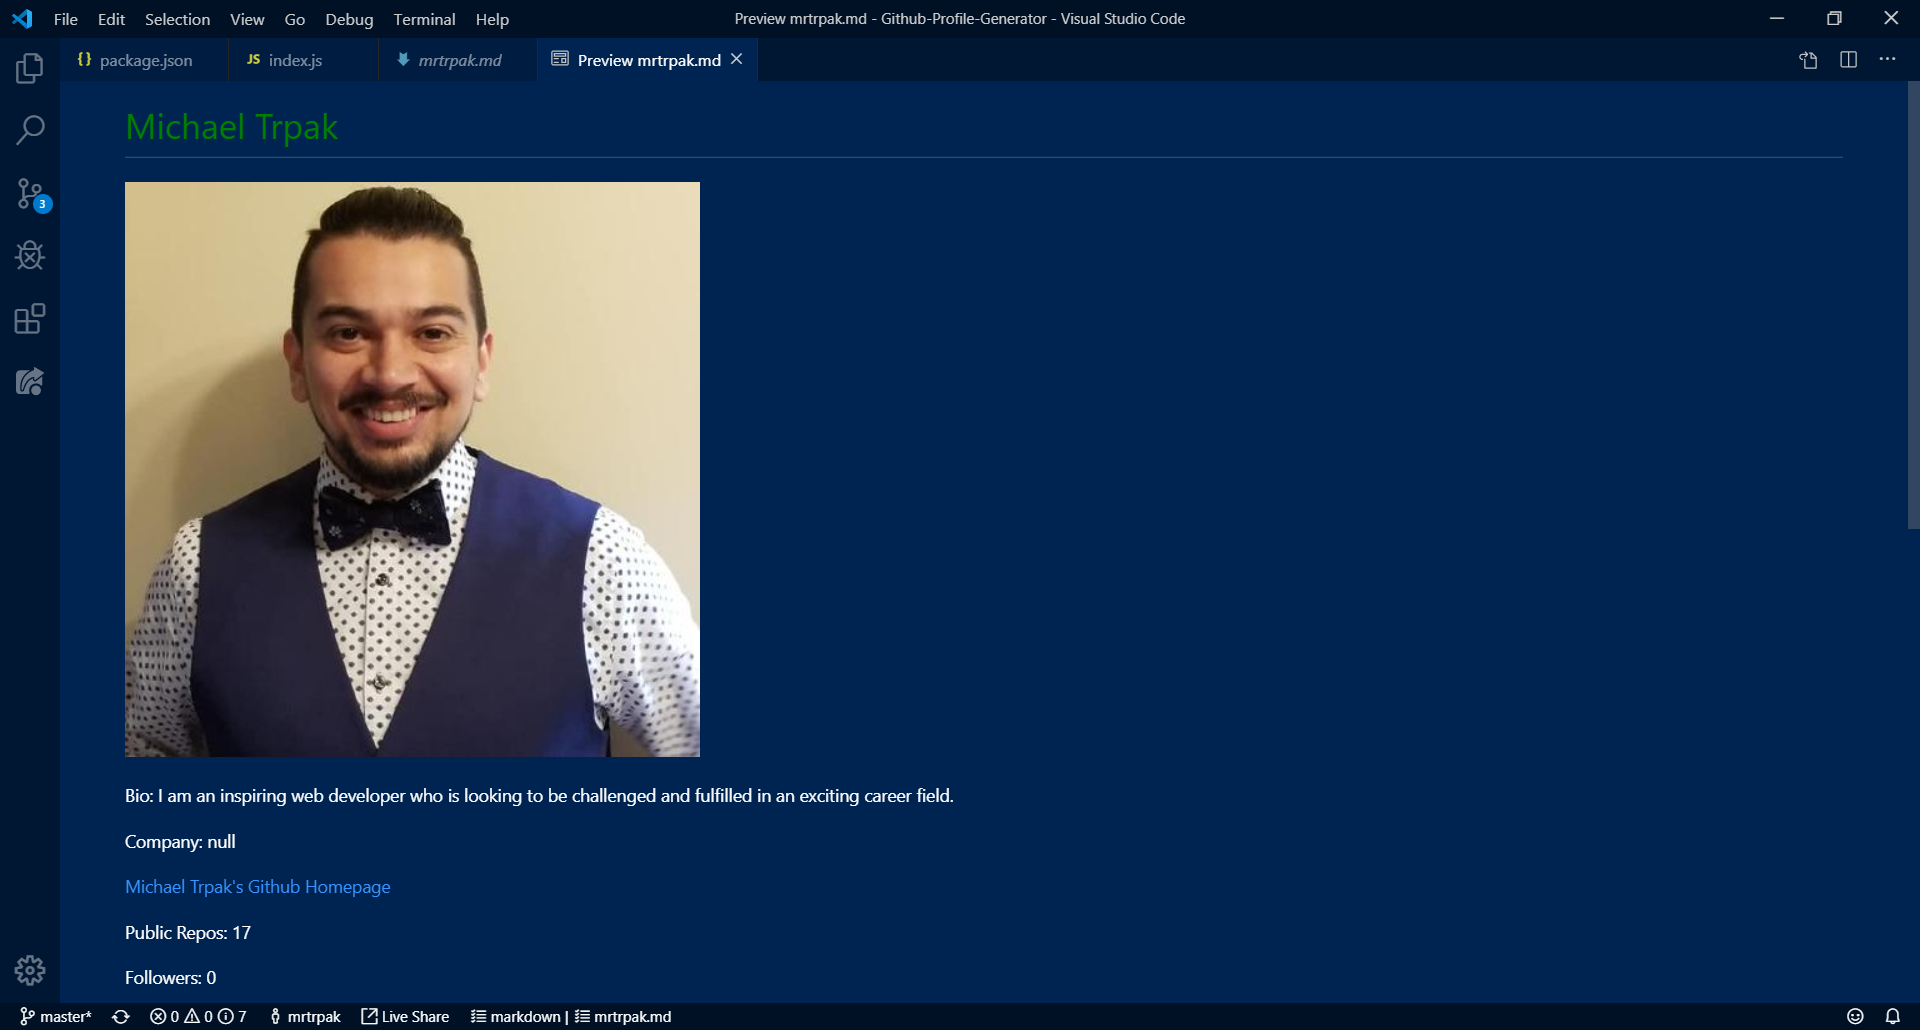
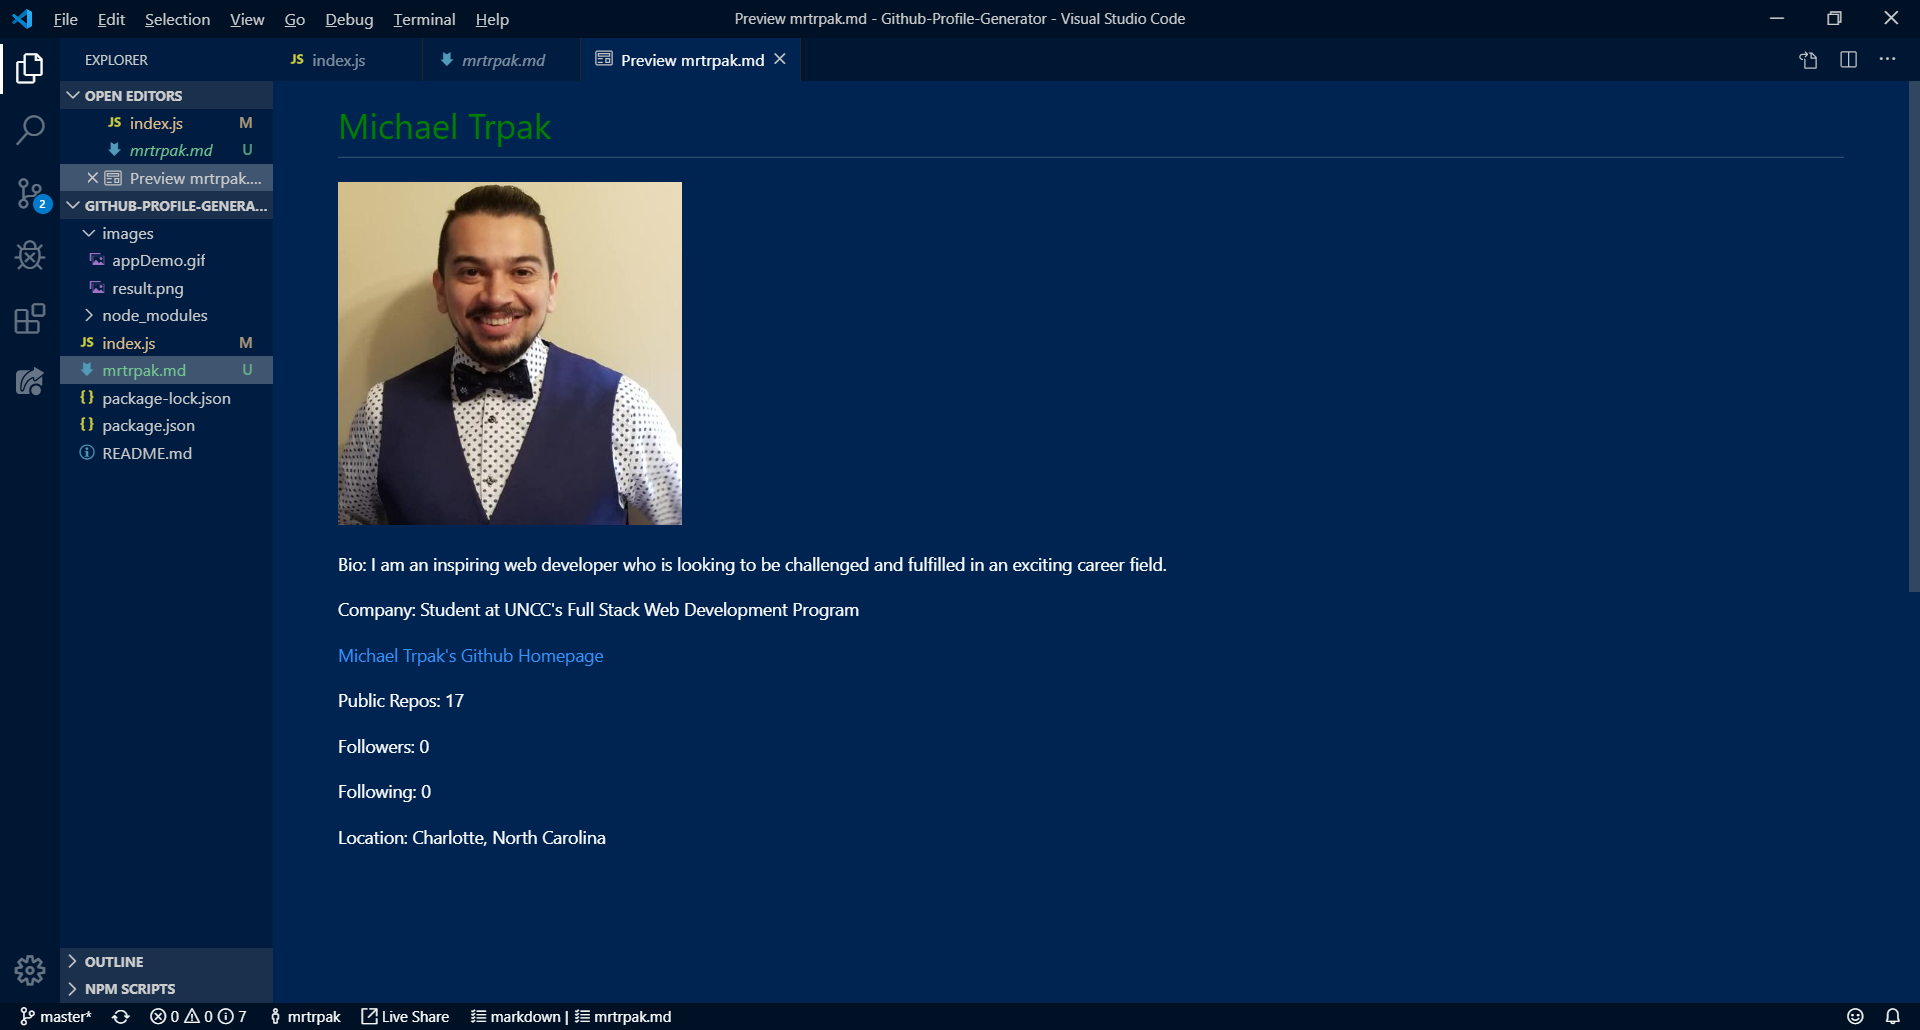
changed the sizing of the photo, remade the divs back to p tags for a better look, updated the image to show new changes

diff --git a/index.js b/index.js
@@ -25,14 +25,14 @@ inquirer.prompt([
     axios.get(queryUrl).then(gitInfo => {
         fs.writeFile(username + ".md",
         "<h1 style='color:" + favColor + "'>" + gitInfo.data.name + "</h1>"
-        + "<img src=" + gitInfo.data.avatar_url + " style='width: 100px; height: 100px;'>"
-        + "<div>Bio: " + gitInfo.data.bio + "</div>"
-        + "<div>Company: " + gitInfo.data.company + "</div>"
+        + "<img src=" + gitInfo.data.avatar_url + " style='width: 275px; height: 275px;'>"
+        + "<p>Bio: " + gitInfo.data.bio + "</p>"
+        + "<p>Company: " + gitInfo.data.company + "</p>"
         + "<a href='" + gitInfo.data.html_url + "'>" + gitInfo.data.name + "'s Github Homepage</a>"
-        + "<div>Public Repos: " + gitInfo.data.public_repos + "</div>"
-        + "<div>Followers: " + gitInfo.data.followers + "</div>"
-        + "<div>Following: " + gitInfo.data.following + "</div>"
-        + "<div>Location: " + gitInfo.data.location + "</div>",
+        + "<p>Public Repos: " + gitInfo.data.public_repos + "</p>"
+        + "<p>Followers: " + gitInfo.data.followers + "</p>"
+        + "<p>Following: " + gitInfo.data.following + "</p>"
+        + "<p>Location: " + gitInfo.data.location + "</p>",
         function(error) {
             if (error) {
                 return error;

diff --git a/mrtrpak.md b/mrtrpak.md
@@ -1,0 +1,1 @@
+<h1 style='color:green'>Michael Trpak</h1><img src=https://avatars2.githubusercontent.com/u/54956694?v=4 style='width: 275px; height: 275px;'><p>Bio: I am an inspiring web developer who is looking to be challenged and fulfilled in an exciting career field.</p><p>Company: Student at UNCC's Full Stack Web Development Program</p><a href='https://github.com/mrtrpak'>Michael Trpak's Github Homepage</a><p>Public Repos: 17</p><p>Followers: 0</p><p>Following: 0</p><p>Location: Charlotte, North Carolina</p>
